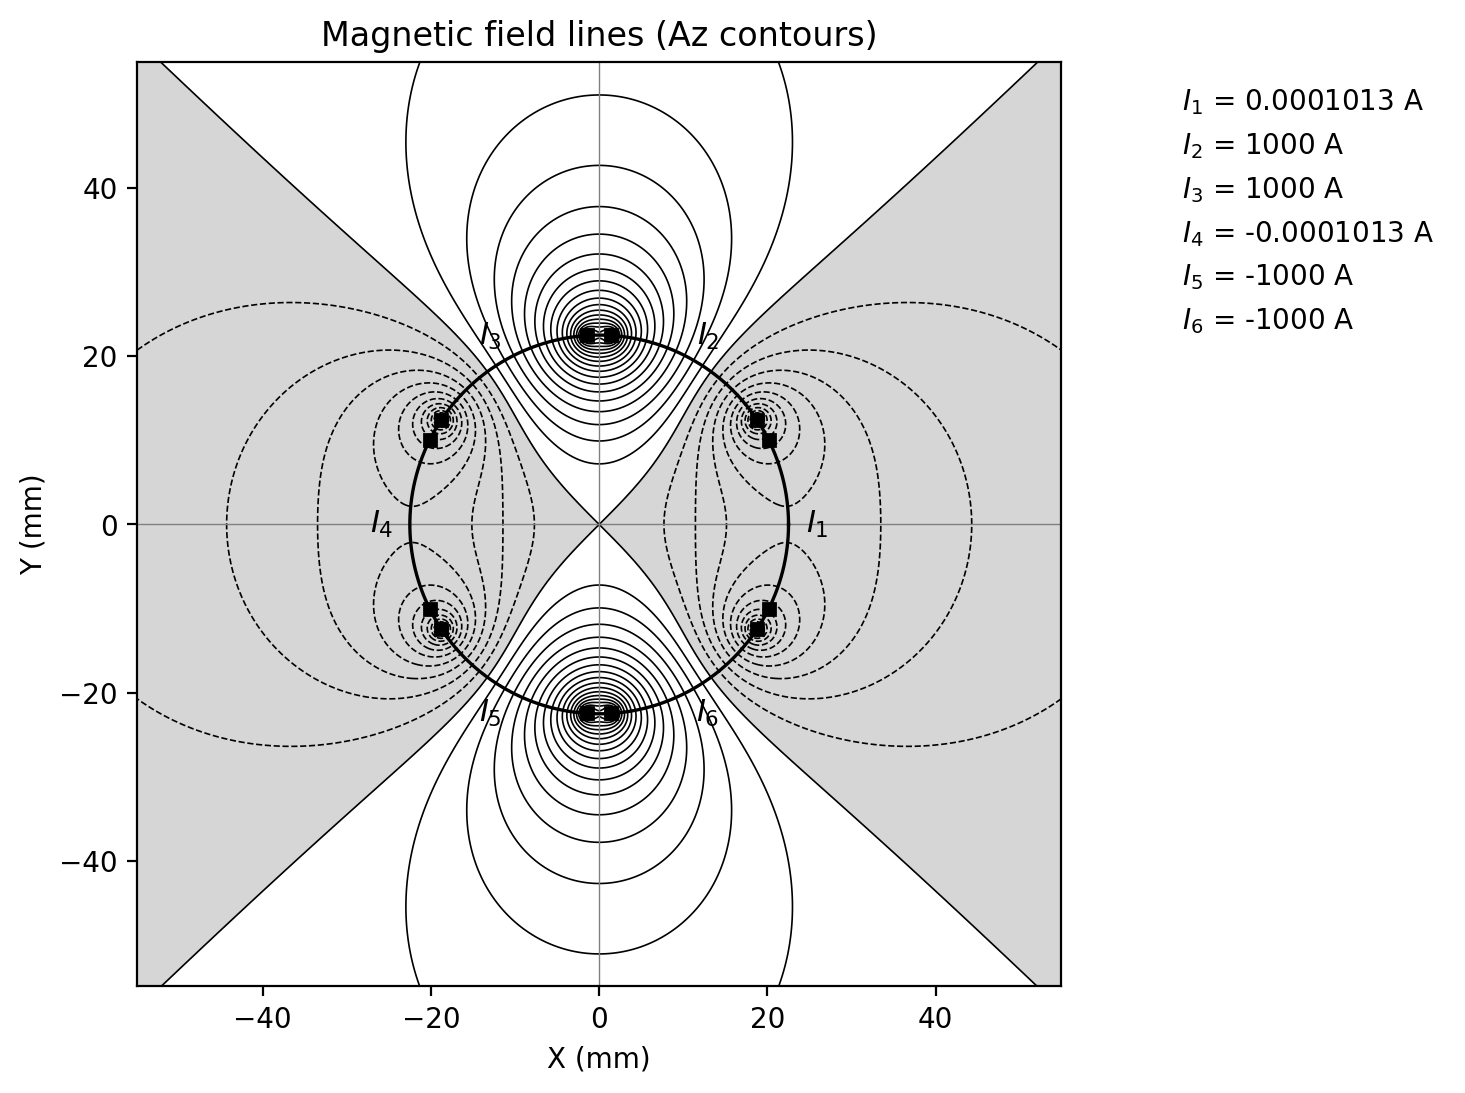
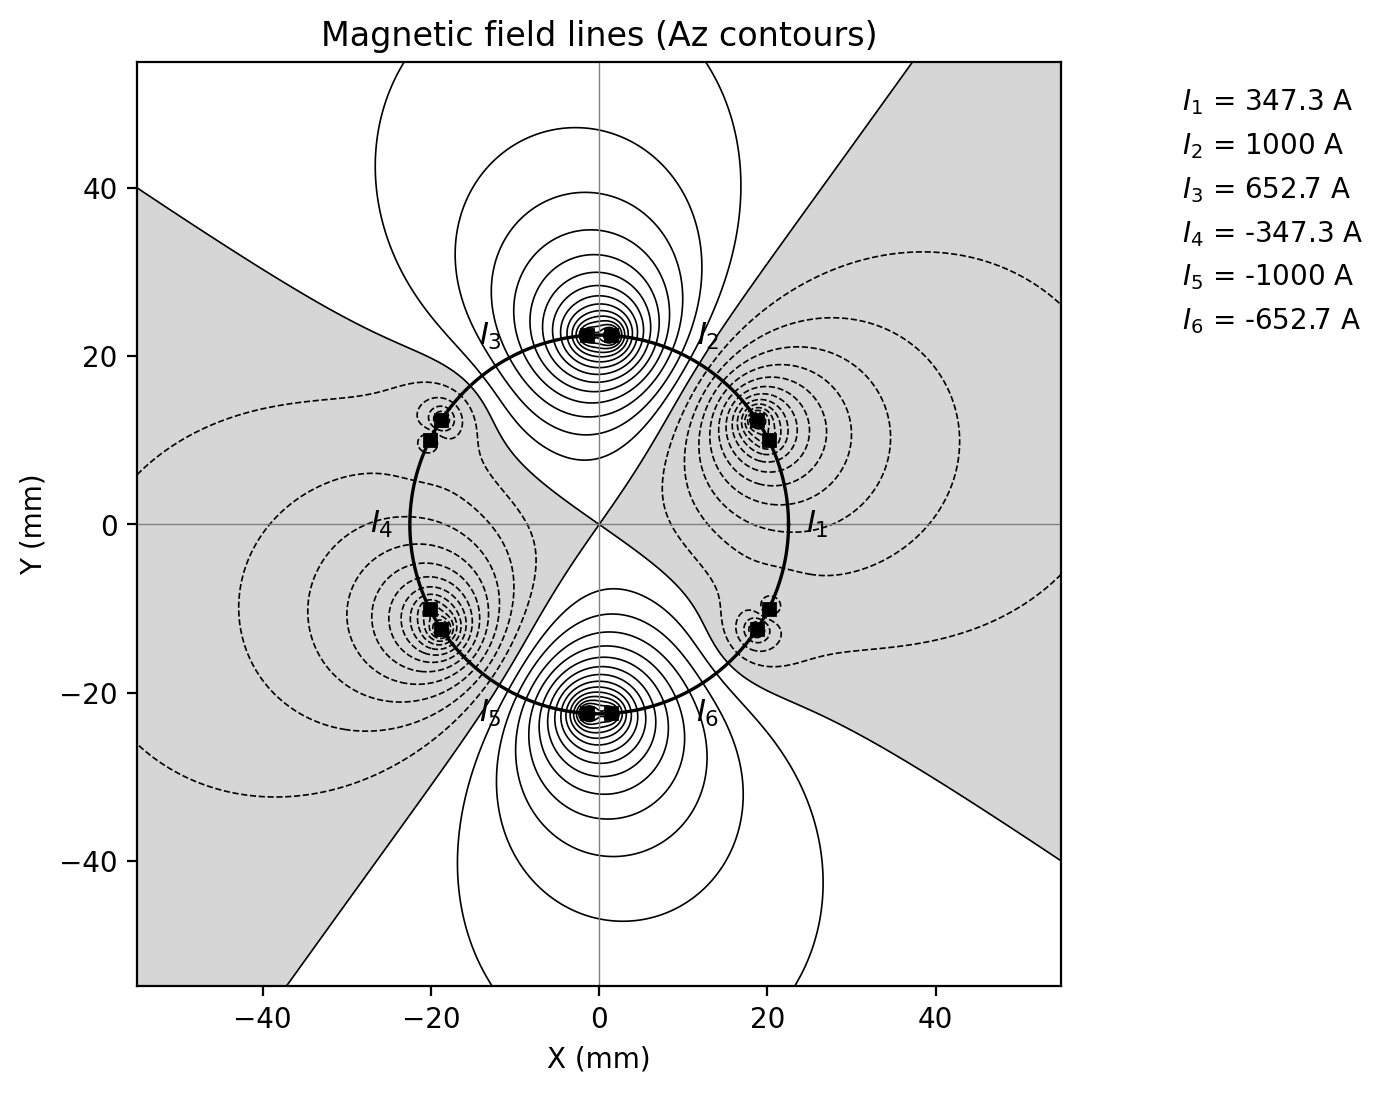
Refactor PSXMCoils initialization and update current solver for improved functionality; add interactive rotation viewer

diff --git a/interactive_rotation.py b/interactive_rotation.py
@@ -1,0 +1,253 @@
+"""Interactive rotational-quadrupole viewer for the PSXM.
+
+Two controls (each a slider *and* a type-in box):
+
+- theta: quadrupole orientation. For each theta the 6 coil currents are
+  re-solved so the centre field is the quadrupole rotated by theta:
+
+      (Bx, By) = G * ( y*cos2θ - x*sin2θ ,  x*cos2θ + y*sin2θ )
+
+  θ = 0 is the upright quadrupole; θ = 45° is the skew quadrupole.
+- radius: the radius of the ring of sample points where the quadrupole
+  target is imposed. Push it outward to probe how far the field stays a
+  clean quadrupole.
+
+The title shows the solved I1..I6 and the fit **residual as a percentage**
+(relative L2 error between the achieved and target field on the sample
+ring). The blue dashed circle marks the current sample ring; hovering
+reads B at the cursor.
+
+θ / radius 滑块或输入框实时调节；标题显示解出的 I1..I6 和百分制 residual
+（采样环上"实现场 vs 目标场"的相对 L2 误差）。蓝色虚线圈是当前采样环。
+
+Only the target field / sample ring changes with the controls — geometry,
+group_matrix and the solver are the same as example.py.
+
+Usage:
+    python interactive_rotation.py
+    python interactive_rotation.py --n-grid 300
+
+Note: needs an interactive matplotlib backend (a normal desktop session).
+"""
+
+import argparse
+
+import numpy as np
+import matplotlib.pyplot as plt
+from matplotlib.widgets import Slider, TextBox
+
+from coils import MU0
+from PSXM_coils import PSXMCoils
+from current_solver import CurrentSolver
+from interactive_plot import _remove_contour_set, _HoverReadout
+
+G = 1e-3              # target field gradient, T/mm
+N_SAMPLE = 12        # number of sample points on the ring
+MAX_CURRENT = 1000.0  # solved currents are rescaled so max|I| = this (A) for display
+
+
+def rotated_quad_target(x, y, theta):
+    """(Bx, By) [T] of a quadrupole field rotated by theta (rad)."""
+    c, s = np.cos(2 * theta), np.sin(2 * theta)
+    return G * (y * c - x * s), G * (x * c + y * s)
+
+
+class RotationPanel:
+    """
+    theta / radius controls -> re-solve the 6 coil currents for the
+    rotated quadrupole target on the sample ring -> redraw field + residual.
+
+    coil_kwargs (radius, coil_length, start_angle, ...) go to PSXMCoils.
+    Shield is off: this viewer is about the centre field, not leakage.
+    """
+
+    def __init__(self, n_grid=220, n_levels=40, extent=4.0 / 3.0,
+                 sample_r=1.0, **coil_kwargs):
+        self.coil_kwargs = coil_kwargs
+        self.n_levels = n_levels
+        self.theta = 0.0            # rad
+        self.sample_r = sample_r    # mm
+        self._updating = False      # guard slider <-> box feedback
+        self.tpl = PSXMCoils(currents=np.zeros(PSXMCoils.N_COILS), **coil_kwargs)
+
+        self._precompute_basis(n_grid, extent)
+        self._rebuild_K()           # builds self.sx/self.sy/self._K from sample_r
+
+        self.fig = plt.figure(figsize=(8, 7.6))
+        self.ax = self.fig.add_axes([0.10, 0.26, 0.80, 0.66])
+        self.fig.text(0.5, 0.005,
+                      "Drag θ / radius (or type a value); currents & residual re-solve live",
+                      ha="center", fontsize=8, color="gray")
+        self._field_artists = []
+        self._draw_static()
+        self.coils = None
+
+        # sample ring (updates with radius) + sample points
+        self._ring, = self.ax.plot([], [], "b--", lw=1.0, zorder=2)
+        self._ring_pts, = self.ax.plot([], [], "b.", ms=5, zorder=2)
+
+        # --- widgets: theta and radius, each slider + type-in box ---
+        self.theta_slider, self.theta_box = self._add_slider_box(
+            0.135, r"$\theta$ (deg)", 0.0, 180.0, 0.0, self._on_theta)
+        r_max = 0.9 * self.tpl.radius
+        self.radius_slider, self.radius_box = self._add_slider_box(
+            0.065, "sample r (mm)", 0.2, r_max, self.sample_r, self._on_radius)
+
+        self._hover = _HoverReadout(self.fig, self.ax, lambda: self.coils)
+        self._refresh()
+
+    # ----------------------------------------------------------- precompute
+    def _precompute_basis(self, n_grid, extent):
+        """Az on the grid is linear in the currents: precompute each coil's
+        unit-current Az once, so redraws are a tiny (n_grid^2 x 6) product."""
+        coef = -MU0 / (4.0 * np.pi)
+        M6 = self.tpl.group_matrix()[:, :PSXMCoils.N_COILS]
+        R = np.max(np.hypot(self.tpl.x, self.tpl.y))
+        self._L = R * extent
+        xs = np.linspace(-self._L, self._L, n_grid)
+        self._X, self._Y = np.meshgrid(xs, xs)
+        dx = (self._X.ravel()[:, None] - self.tpl.x) * 1e-3  # mm -> m
+        dy = (self._Y.ravel()[:, None] - self.tpl.y) * 1e-3
+        log_r2 = np.log(np.maximum(dx ** 2 + dy ** 2, 1e-24))
+        self._az_basis = coef * (log_r2 @ M6)                # (n_grid^2, 6)
+        lr0 = np.log(np.maximum((self.tpl.x * 1e-3) ** 2 + (self.tpl.y * 1e-3) ** 2, 1e-24))
+        self._az0_basis = coef * (lr0 @ M6)                  # Az at origin
+
+    def _rebuild_K(self):
+        """Sample points on the ring of radius sample_r, and the fixed-per-r
+        coefficient matrix K (field at samples per physical coil current)."""
+        ang = np.linspace(0, 2 * np.pi, N_SAMPLE, endpoint=False)
+        self.sx, self.sy = self.sample_r * np.cos(ang), self.sample_r * np.sin(ang)
+        solver = CurrentSolver.from_current_source(self.tpl)
+        for x, y in zip(self.sx, self.sy):
+            solver.add_sample_point(x, y, 0.0, 0.0)
+        self._K = solver.coefficient_matrix() @ self.tpl.group_matrix()
+
+    # -------------------------------------------------------------- widgets
+    def _add_slider_box(self, y, label, vmin, vmax, vinit, on_change):
+        s_ax = self.fig.add_axes([0.16, y, 0.54, 0.03])
+        slider = Slider(s_ax, label, vmin, vmax, valinit=vinit)
+        slider.valtext.set_visible(False)
+        b_ax = self.fig.add_axes([0.79, y - 0.006, 0.12, 0.042])
+        box = TextBox(b_ax, "", initial=f"{vinit:.4g}")
+        slider.on_changed(lambda v: self._sync_from_slider(slider, box, v, on_change))
+        box.on_submit(lambda t: self._sync_from_box(slider, box, t, on_change))
+        return slider, box
+
+    def _sync_from_slider(self, slider, box, val, on_change):
+        if self._updating:
+            return
+        self._updating = True
+        try:
+            box.set_val(f"{val:.4g}")
+        finally:
+            self._updating = False
+        on_change(val)
+
+    def _sync_from_box(self, slider, box, text, on_change):
+        if self._updating:
+            return
+        try:
+            val = float(text)
+        except ValueError:
+            self._updating = True
+            try:
+                box.set_val(f"{slider.val:.4g}")
+            finally:
+                self._updating = False
+            return
+        self._updating = True
+        try:
+            slider.eventson = False
+            slider.set_val(float(np.clip(val, slider.valmin, slider.valmax)))
+            slider.eventson = True
+        finally:
+            self._updating = False
+        on_change(val)
+
+    def _on_theta(self, val_deg):
+        self.theta = np.deg2rad(val_deg)
+        self._refresh()
+
+    def _on_radius(self, val_mm):
+        self.sample_r = max(1e-3, float(val_mm))
+        self._rebuild_K()
+        self._refresh()
+
+    # --------------------------------------------------------------- redraw
+    def _draw_static(self):
+        ax, L, tpl = self.ax, self._L, self.tpl
+        ax.plot(tpl.x, tpl.y, "ks", markersize=4)
+        ax.axhline(0, color="gray", lw=0.5)
+        ax.axvline(0, color="gray", lw=0.5)
+        th = np.linspace(0, 2 * np.pi, 200)
+        ax.plot(tpl.radius * np.cos(th), tpl.radius * np.sin(th), "k-", lw=1.2)
+        for k in range(PSXMCoils.N_COILS):
+            a = np.radians(tpl.center_angles[k])
+            ax.text(tpl.radius * 1.15 * np.cos(a), tpl.radius * 1.15 * np.sin(a),
+                    f"$I_{k + 1}$", ha="center", va="center", fontsize=11, clip_on=True)
+        ax.set_xlim(-L, L)
+        ax.set_ylim(-L, L)
+        ax.set_aspect("equal")
+        ax.set_xlabel("X (mm)")
+        ax.set_ylabel("Y (mm)")
+
+    def _refresh(self):
+        # target field on the sample ring, then solve the 6 coil currents
+        Bx, By = rotated_quad_target(self.sx, self.sy, self.theta)
+        B = np.concatenate([Bx, By])
+        I, *_ = np.linalg.lstsq(self._K, B, rcond=None)
+
+        # residual as a percentage: relative L2 error of achieved vs target
+        # field, using the RAW least-squares currents (scale-honest).
+        B_fit = self._K @ I
+        denom = np.linalg.norm(B)
+        resid_pct = 100.0 * np.linalg.norm(B_fit - B) / denom if denom > 0 else 0.0
+
+        # rescale only for display so the field shape is visible at any theta
+        peak = float(np.max(np.abs(I)))
+        I_disp = I * (MAX_CURRENT / peak) if peak > 0 else I
+        self.coils = PSXMCoils(currents=I_disp, **self.coil_kwargs)
+
+        # sample ring + points
+        th = np.linspace(0, 2 * np.pi, 200)
+        self._ring.set_data(self.sample_r * np.cos(th), self.sample_r * np.sin(th))
+        self._ring_pts.set_data(self.sx, self.sy)
+
+        # field contours
+        for cs in self._field_artists:
+            _remove_contour_set(cs)
+        self._field_artists = []
+        Az = (self._az_basis @ I_disp).reshape(self._X.shape)
+        az0 = float(self._az0_basis @ I_disp)
+        if az0 > Az.min():
+            self._field_artists.append(self.ax.contourf(
+                self._X, self._Y, Az, levels=[Az.min(), az0],
+                colors=["0.6"], alpha=0.4, zorder=0))
+        self._field_artists.append(self.ax.contour(
+            self._X, self._Y, Az, levels=self.n_levels, colors="k", linewidths=0.6))
+
+        currents = "  ".join(f"$I_{k + 1}$={I_disp[k]:.0f}" for k in range(PSXMCoils.N_COILS))
+        self.ax.set_title(
+            f"θ = {np.degrees(self.theta):.0f}°   |   sample r = {self.sample_r:.2f} mm   |   "
+            f"residual = {resid_pct:.2f} %\n{currents}",
+            fontsize=9)
+        self.fig.canvas.draw_idle()
+
+    def show(self):
+        plt.show()
+
+
+def main():
+    p = argparse.ArgumentParser(description="Interactive rotational-quadrupole PSXM viewer.")
+    p.add_argument("--n-grid", type=int, default=220, help="contour grid resolution")
+    p.add_argument("--radius", type=float, default=22.5, help="coil ring radius, mm")
+    p.add_argument("--coil-length", type=float, default=20.0, help="coil leg chord length, mm")
+    p.add_argument("--sample-r", type=float, default=1.0, help="initial sample-ring radius, mm")
+    args = p.parse_args()
+    RotationPanel(n_grid=args.n_grid, radius=args.radius,
+                  coil_length=args.coil_length, sample_r=args.sample_r).show()
+
+
+if __name__ == "__main__":
+    main()

diff --git a/PSXM_coils.py b/PSXM_coils.py
@@ -3,7 +3,7 @@ import matplotlib.pyplot as plt
 
 from coils import Coils, as_array
 
-
+N_COIL=6
 class PSXMCoils(Coils):
     """
     Six coils of an PSXM sensor, evenly spaced around a circle.
@@ -44,7 +44,7 @@ class PSXMCoils(Coils):
     CurrentSolver) rather than prescribed.
     """
 
-    N_COILS = 6
+    N_COILS = N_COIL
 
     def __init__(self, currents, radius=22.5, coil_length=20.0, start_angle=0,
                  shield=False, shield_radius=27.5, shield_n=100, shield_currents=None):
@@ -206,7 +206,10 @@ class PSXMCoils(Coils):
 
 
 if __name__ == "__main__":
-    psxm = PSXMCoils(currents=[729.3, 1000, 270.7, -729.3, -1000, -270.7])
+    #psxm = PSXMCoils(currents=[729.3, 1000, 270.7, -729.3, -1000, -270.7])
+    psxm = PSXMCoils(currents=[0, 1000, 1000, 0, -1000, -1000],shield=True,shield_n=100,shield_currents=[-1000]*100)
+    #psxm = PSXMCoils(currents=[0,-1,0,0,0,0],shield=True,shield_n=100,shield_currents=np.zeros(100))
     print(psxm)
     print(psxm.positions)
-    psxm.plot(path="test.png")
+    psxm.plot()
+    #psxm.plot(path="test.png")

diff --git a/current_solver.py b/current_solver.py
@@ -180,9 +180,14 @@ if __name__ == "__main__":
     # PSXM coil currents (not one DOF per leg point) via group_matrix.
     G = 1e-2  # T/mm
     solver = CurrentSolver.from_current_source(truth)
-    for angle in np.linspace(0, 2 * np.pi, 12, endpoint=False):
-        x, y = 1.0 * np.cos(angle), 1.0 * np.sin(angle)
-        solver.add_sample_point(x, y, Bx=G * y, By=G * x)
+    phi = np.deg2rad(10)          # 想转多少度
+    c, s = np.cos(2*phi), np.sin(2*phi)
+    r =20  # mm
+    for angle in np.linspace(0, 2*np.pi, 12, endpoint=False):
+        x, y = r * np.cos(angle), r * np.sin(angle)
+        solver.add_sample_point(x, y,
+            Bx=G*(y*c - x*s),
+            By=G*(x*c + y*s))
 
     I_free = solver.solve()
     B_fit = solver.predicted_field(I_free)

diff --git a/coils.py b/coils.py
@@ -179,3 +179,5 @@ if __name__ == "__main__":
     coils.add_coil(3, 3, 2.0)
     print(coils)
     print("total current:", coils.total_current())
+    coils.remove_coil(3)
+    plt = coils.plot()
